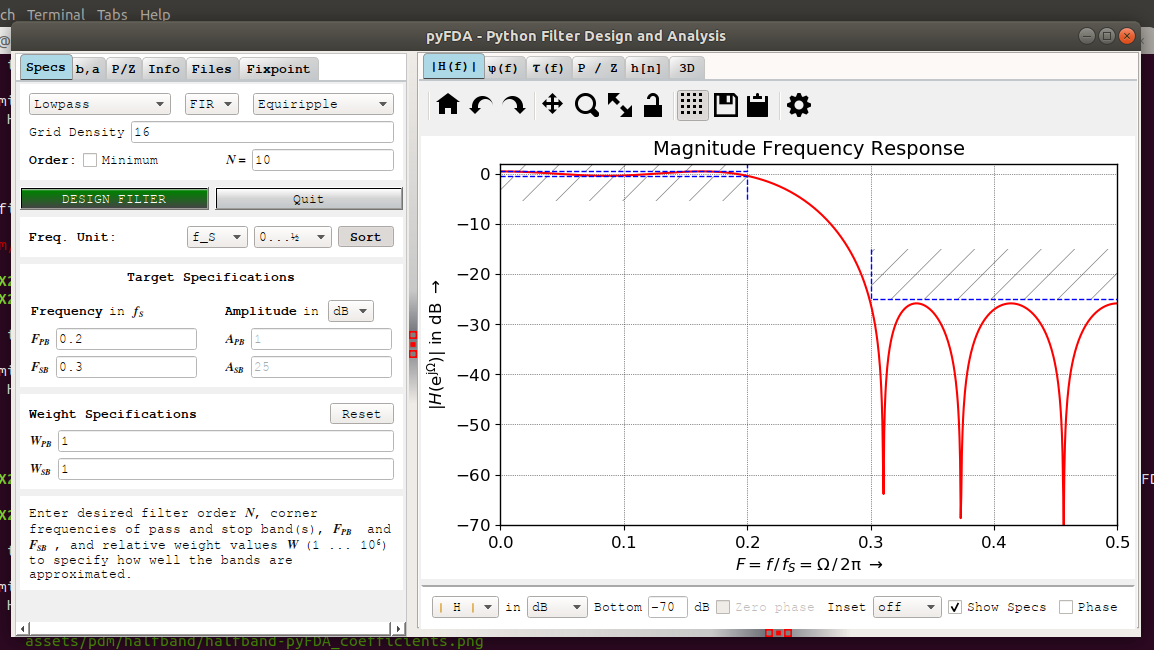
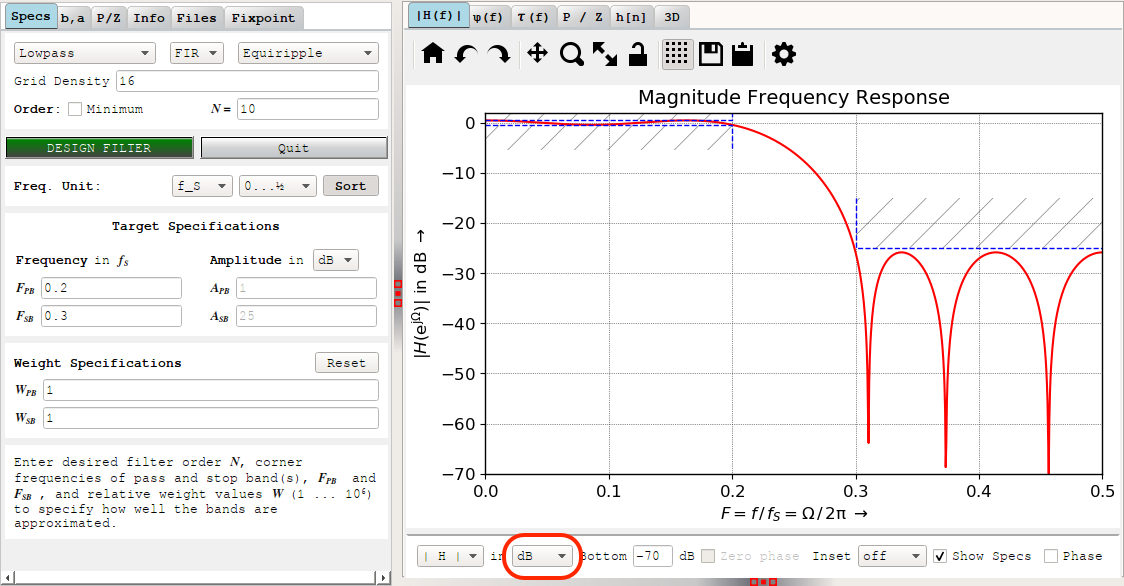
pyFDA instructions.

diff --git a/_drafts/2020-11-01-Half-Band-Filters-A-Workhorse-of-Decimation-Filters.md b/_drafts/2020-11-01-Half-Band-Filters-A-Workhorse-of-Decimation-Filters.md
@@ -84,7 +84,7 @@ In pyFDA, we can now calculate a half-band filter as follows:
 * Deselect the "Order: Minimum" option.
 
     As a result of this, we can now manually enter N, the order of the filter, and the
-    Weights of the pass band (Wpb and Wsb). We can not enter the attenuation parameters
+    weights of the pass band (Wpb and Wsb). We can not enter the attenuation parameters
     (Apb and Asb) any more.
 
 * Enter the desired filter order N
@@ -97,17 +97,18 @@ In pyFDA, we can now calculate a half-band filter as follows:
 
 The result will be as follows:
 
-XXX screenshot
+![pyFDA half-band parameters](/assets/pdm/halfband/halfband-pyFDA_parameters.png)
 
 If you didn't change the default settings, you'll see in the Magnitude Frequency
 Response graph: 
 
-XXX screenshot
+![pyFDA magnitude response graph - dB](/assets/pdm/halfband/halfband-pyFDA_dB_response.png)
+
 
 If you're wondering why this doesn't look symmetric at all, change the units from
 *dB* to *V*, you'll be greeted with this:
 
-XXX screenshot
+![pyFDA magnitude response graph - V](/assets/pdm/halfband/halfband-pyFDA_linear_response.png)
 
 Notice how the ripple in the pass band is identical to the ripple in the stop band, 
 after taking into account that the negative ripple in the stop band comes out as
@@ -115,18 +116,21 @@ positive because the magnitude response graph uses absolute values.
 
 Click on `h[n]` tab in the right pane for the filter coefficients:
 
-XXXX
+![pyFDA impluse response](/assets/pdm/halfband/halfband-pyFDA_coefficients_graph.png)
 
 As promised, except for the center tap, 50% of the coefficients are 0. And the center tap is 0.5.
 
 Or are they? When you click select the `b,a` tab in the left pane, you get the coefficients
 listed in floating point format:
 
-XXX
+![pyFDA coefficients](/assets/pdm/halfband/halfband-pyFDA_coefficients_numbers.png)
 
-While they are close to 0, they are not quite that. You can easily fix that by just clamping
-these coefficient to 0, but does that feel right to you? For half-band filters of a high order,
-doing
+While they are close to but not quite 0. You can easily fix that by just clamping
+these coefficients to 0, but does that feel right to you? For half-band filters of a high order
+with a high attenuation, this will almost certainly change the performance characteristice in
+some subtle way.
+
+There must be a better way to go about this!
 
 # References
 
